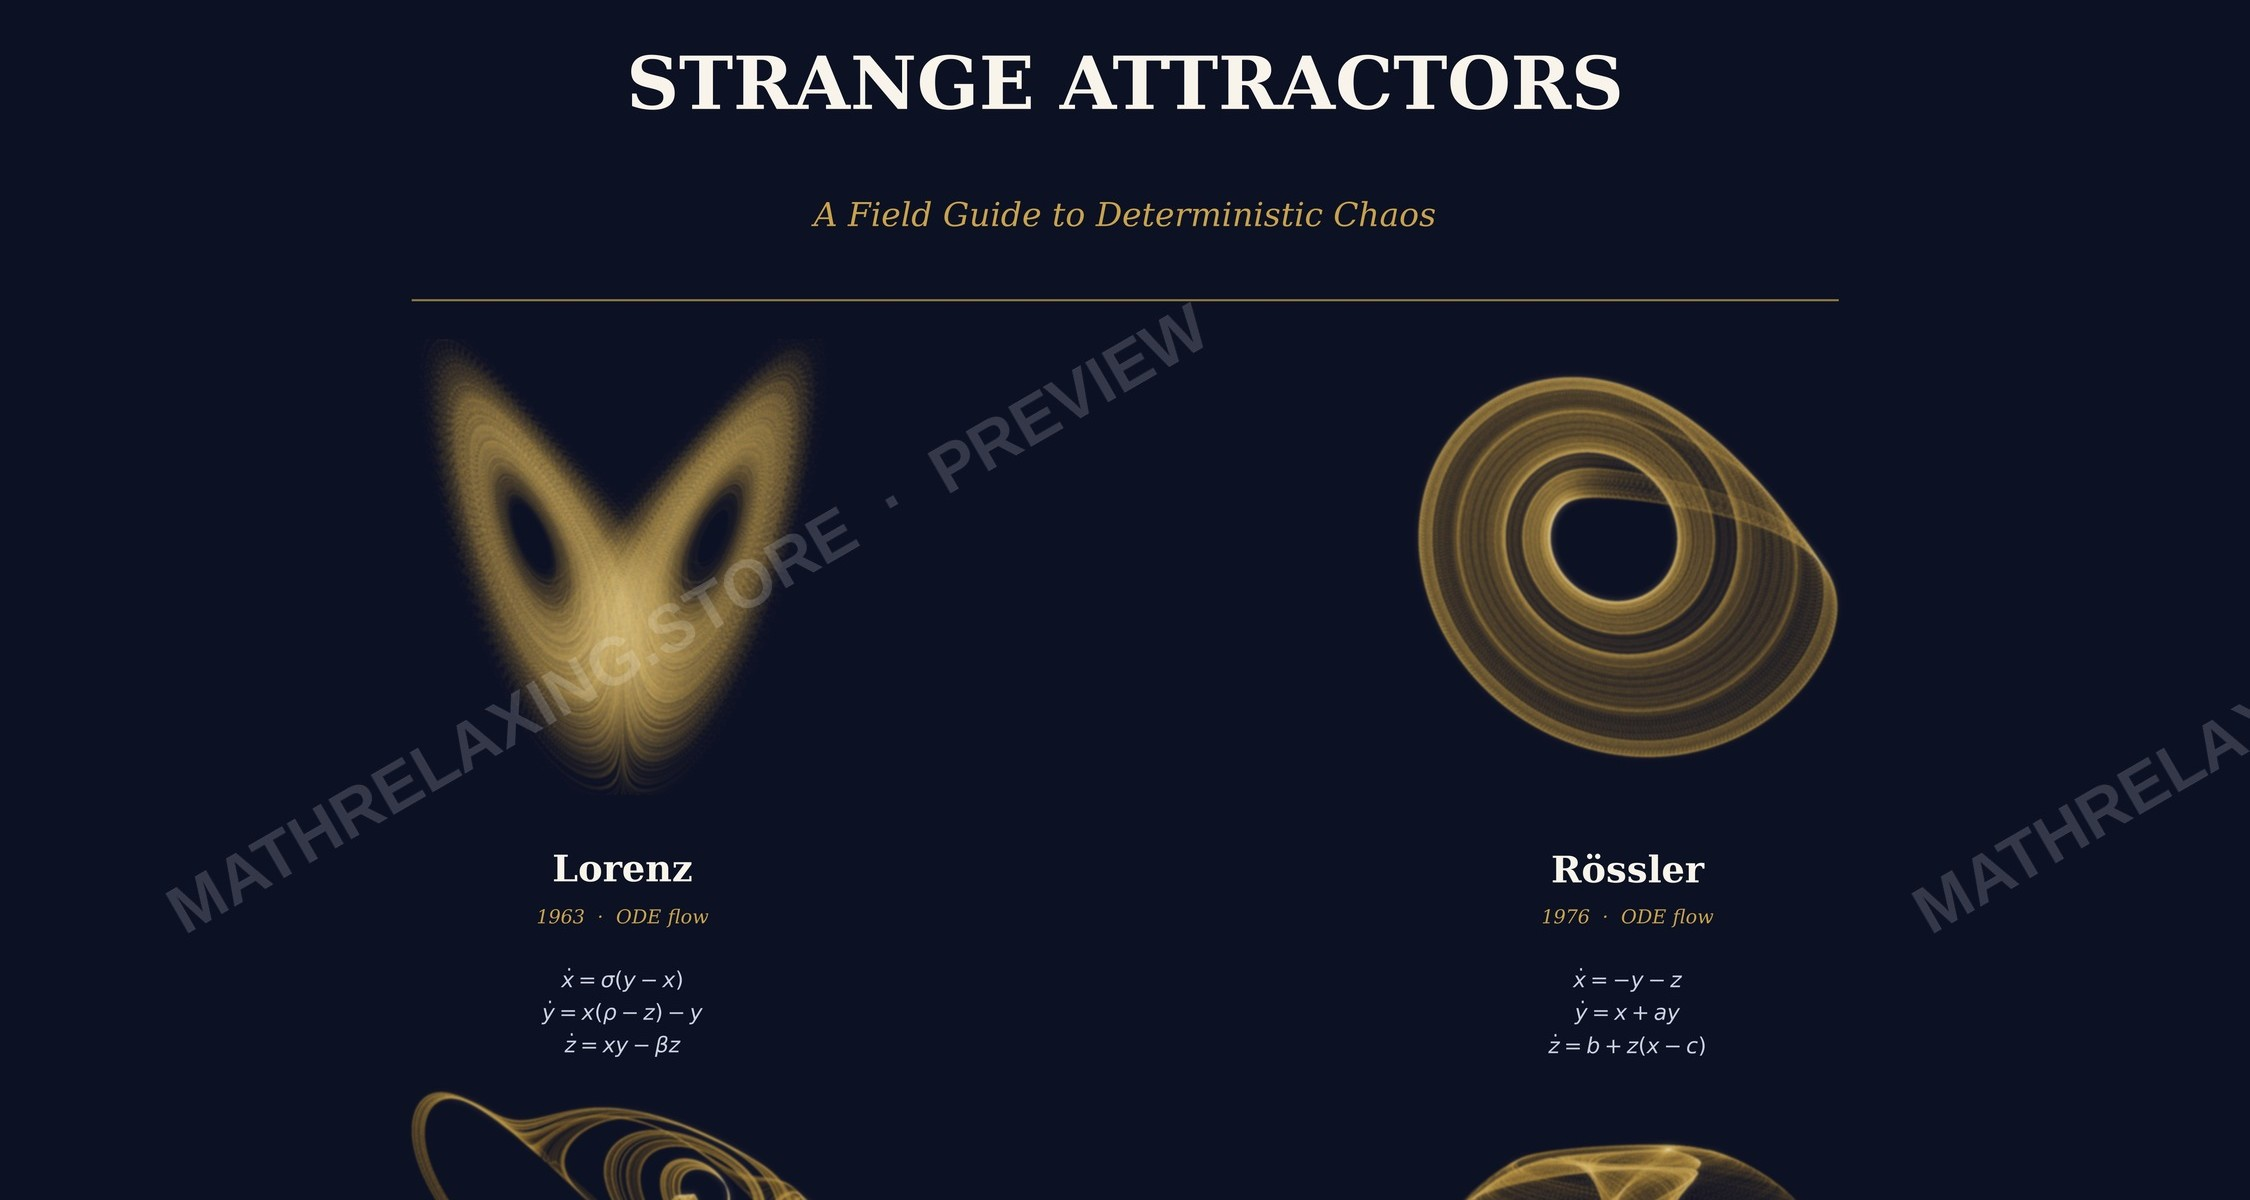
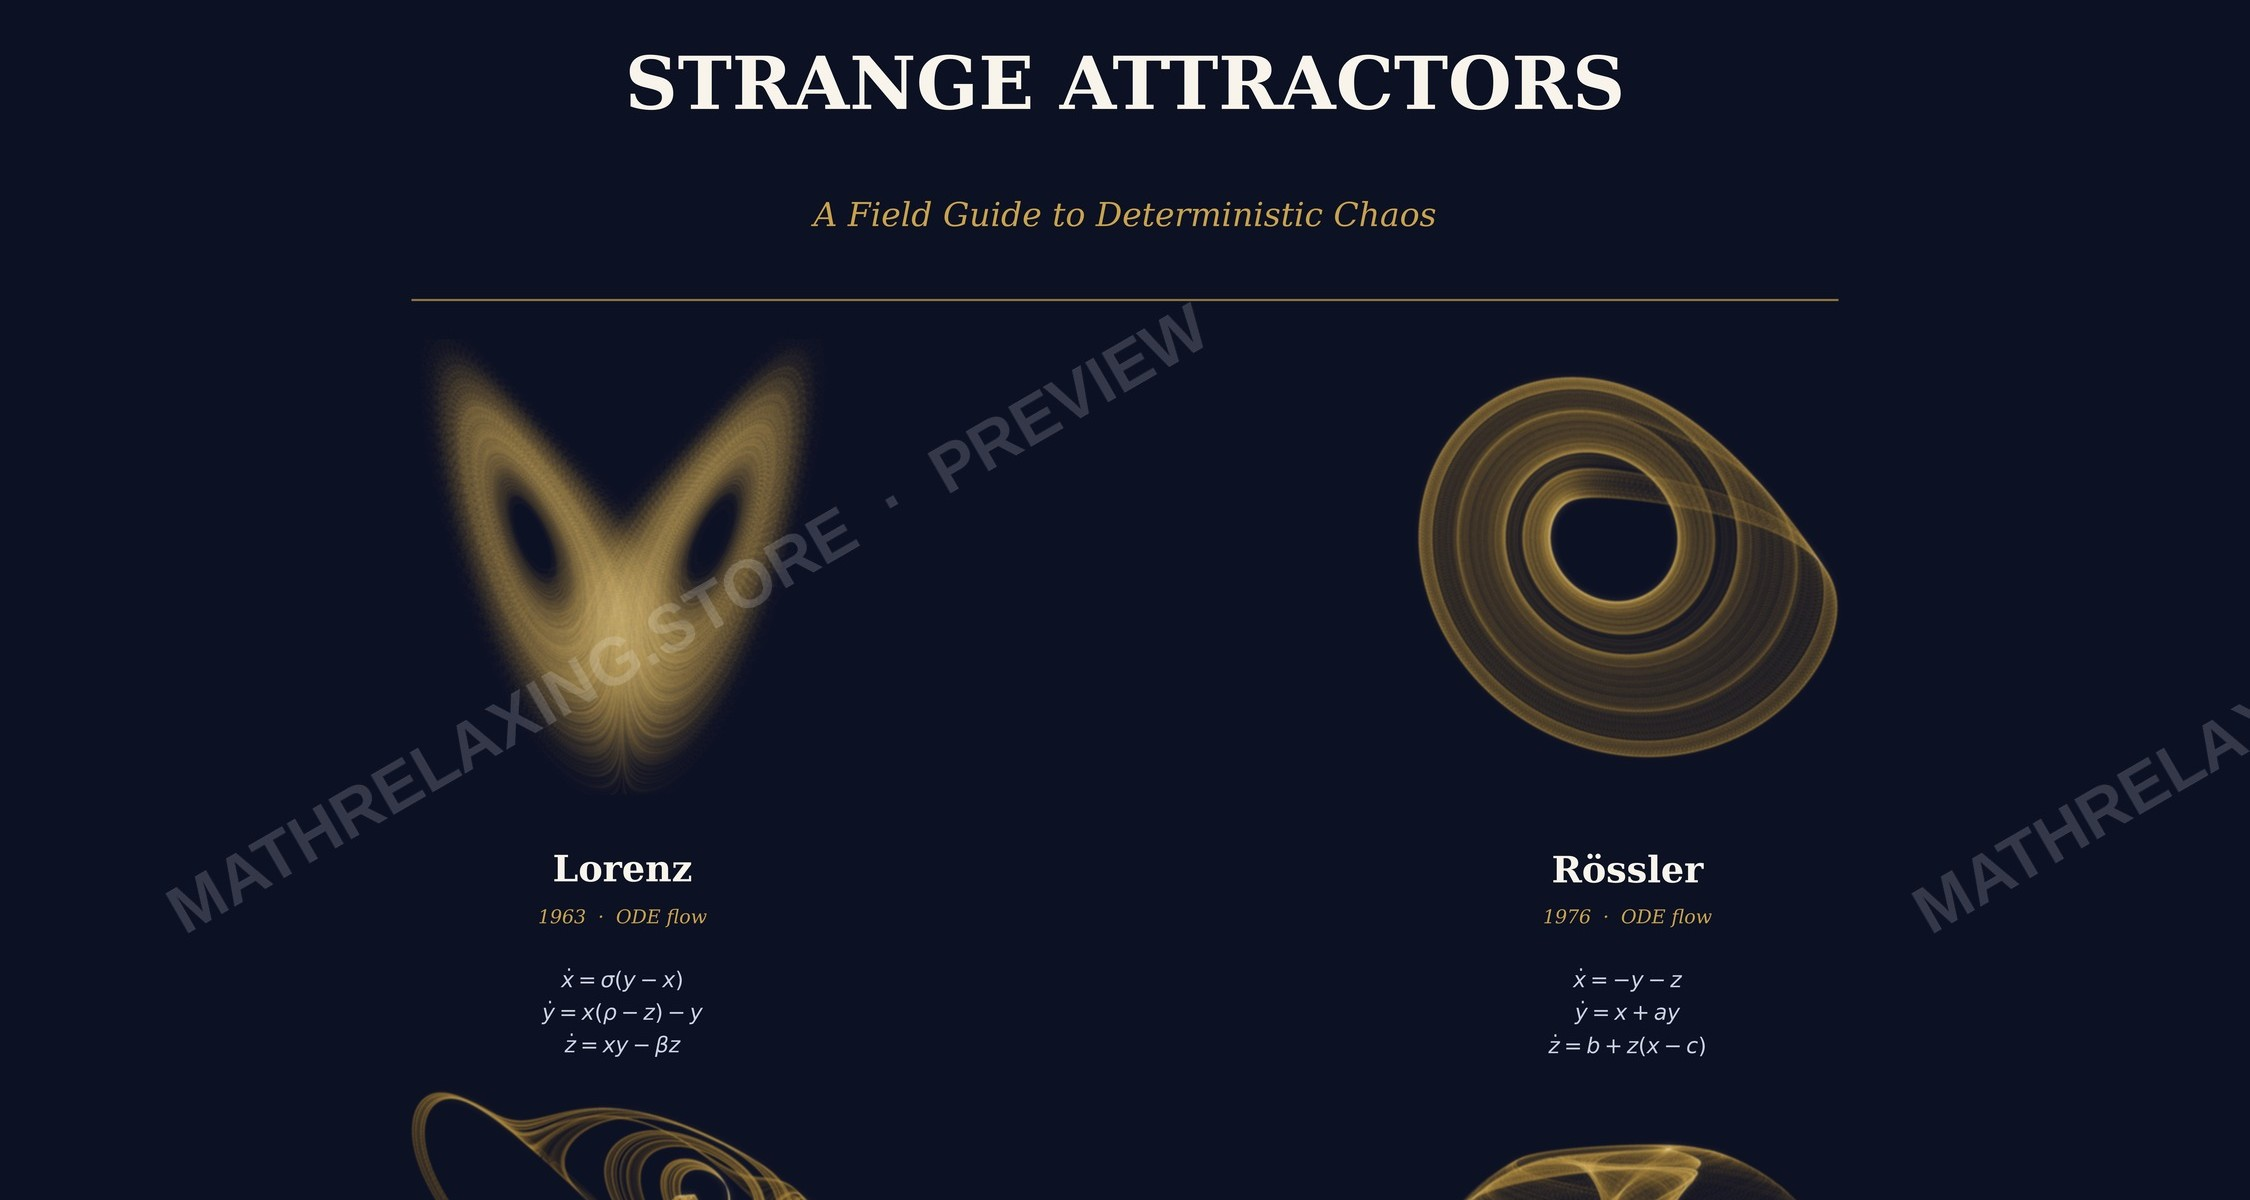
Strange Attractors poster: remove branding, render at 30x40 for large print
Dropped the logo/footer so the sellable file is clean wall art (matching the
other Type-5 prints), and bumped resolution to 9000x12000 (30x40in @300dpi)
with larger tiles (2400px) and more integration steps (ODEs 1.8M, maps 140k)
for finer detail when printed large. 3.45 MB, under Etsy's 20 MB limit.
Replaced the images + file and updated the description on the live draft
(listing_id=4534313102).

diff --git a/attractor_prints/generate_attractor_collection.py b/attractor_prints/generate_attractor_collection.py
@@ -21,7 +21,7 @@ Salida en collection/:
   StrangeAttractors_preview.jpg  (listing, con marca de agua diagonal)
 
 Uso:
-  python generate_attractor_collection.py            # 5400x7200 (18x24in @300dpi)
+  python generate_attractor_collection.py            # 9000x12000 (30x40in @300dpi)
   python generate_attractor_collection.py --test      # rapido, baja resolucion
 """
 import os
@@ -41,8 +41,10 @@ BASE = os.path.dirname(os.path.abspath(__file__))
 OUT = os.path.join(BASE, "collection")
 
 TEST = "--test" in sys.argv
-TILE = 380 if TEST else 1500          # px per attractor tile
-POSTER_DPI = 60 if TEST else 300      # 18x24in -> 1080x1440 (test) or 5400x7200
+# larger tiles + higher poster dpi -> more detail for big-format printing.
+TILE = 380 if TEST else 2400          # px per attractor tile
+POSTER_DPI = 60 if TEST else 500      # 18x24in figure -> 1080x1440 (test) or 9000x12000
+#   (9000x12000 px = print-ready to 30x40 in at 300 dpi, matching the other big prints)
 
 NAVY = "#0d1124"
 GOLD = brand.GOLD
@@ -120,19 +122,19 @@ def _tile(xs, ys, W=TILE, gamma=0.52):
 
 def lorenz_tile():
     def f(v): x, y, z = v; return np.array([10 * (y - x), x * (28 - z) - y, x * y - 8 / 3 * z])
-    n = 60000 if TEST else 900000
+    n = 60000 if TEST else 1800000
     return _tile(*_ode_xy(f, [1, 1, 1], 0.005, n, proj=2))
 
 
 def rossler_tile():
     def f(v): x, y, z = v; return np.array([-y - z, x + 0.2 * y, 0.2 + z * (x - 5.7)])
-    n = 60000 if TEST else 900000
+    n = 60000 if TEST else 1800000
     return _tile(*_ode_xy(f, [1, 1, 1], 0.02, n, proj=1))
 
 
 def thomas_tile():
     def f(v): x, y, z = v; b = 0.208; return np.array([np.sin(y) - b * x, np.sin(z) - b * y, np.sin(x) - b * z])
-    n = 60000 if TEST else 900000
+    n = 60000 if TEST else 1800000
     return _tile(*_ode_xy(f, [1, 0, 1], 0.05, n, proj=1))
 
 
@@ -141,20 +143,20 @@ def aizawa_tile():
         x, y, z = v; a, b, c, d, e, g = 0.95, 0.7, 0.6, 3.5, 0.25, 0.1
         return np.array([(z - b) * x - d * y, d * x + (z - b) * y,
                          c + a * z - z**3 / 3 - (x**2 + y**2) * (1 + e * z) + g * z * x**3])
-    n = 60000 if TEST else 900000
+    n = 60000 if TEST else 1800000
     return _tile(*_ode_xy(f, [0.1, 0, 0], 0.01, n, proj=2))
 
 
 def dejong_tile():
     a, b, c, d = 1.641, 1.902, 0.316, 1.525
-    npts = 15000 if TEST else 90000
+    npts = 15000 if TEST else 140000
     return _tile(*_map_xy(lambda x, y: (np.sin(a * y) - np.cos(b * x), np.sin(c * x) - np.cos(d * y)),
                           7, npts, 60))
 
 
 def clifford_tile():
     a, b, c, d = -1.4, 1.6, 1.0, 0.7
-    npts = 15000 if TEST else 90000
+    npts = 15000 if TEST else 140000
     return _tile(*_map_xy(lambda x, y: (np.sin(a * y) + c * np.cos(a * x), np.sin(b * x) + d * np.cos(b * y)),
                           3, npts, 60))
 
@@ -215,14 +217,8 @@ def build_poster():
         ax.text(cx, ty - ch * 0.15, eq, ha="center", va="top", fontsize=12.5,
                 color=(0.80, 0.82, 0.88), zorder=4, linespacing=1.5)
 
-    # footer band with logo
-    ax.add_patch(plt.Rectangle((0, 0), 3, 0.30, color="black", zorder=5))
-    if os.path.exists(brand.LOGO_PATH):
-        logo = mpimg.imread(brand.LOGO_PATH)
-        lh = 0.20; lw = lh * logo.shape[1] / logo.shape[0]
-        ax.imshow(logo, extent=[1.5 - lw / 2, 1.5 + lw / 2, 0.05, 0.05 + lh], zorder=6)
-    ax.text(2.86, 0.15, "mathrelaxing.store", ha="right", va="center",
-            fontsize=10, color=(0.6, 0.62, 0.7), zorder=6, family="serif")
+    # No branding on the sellable file -- it's wall art for framing, same
+    # convention as the other Type-5 art prints (Rossler, Vector Field...).
 
     print_path = os.path.join(OUT, "StrangeAttractors_print.jpg")
     fig.savefig(print_path, dpi=POSTER_DPI, facecolor=NAVY,

diff --git a/products_catalog.py b/products_catalog.py
@@ -644,7 +644,7 @@ This poster gathers six of the most beautiful, side by side.
 WHAT YOU GET
 ────────────────────────
 1 high-resolution JPG poster
-Resolution: 5400 × 7200 px (print-ready up to 18×24 inches at 300dpi)
+Resolution: 9000 × 12000 px (print-ready up to 30×40 inches at 300dpi)
 Format: JPG, high quality
 
 ────────────────────────
